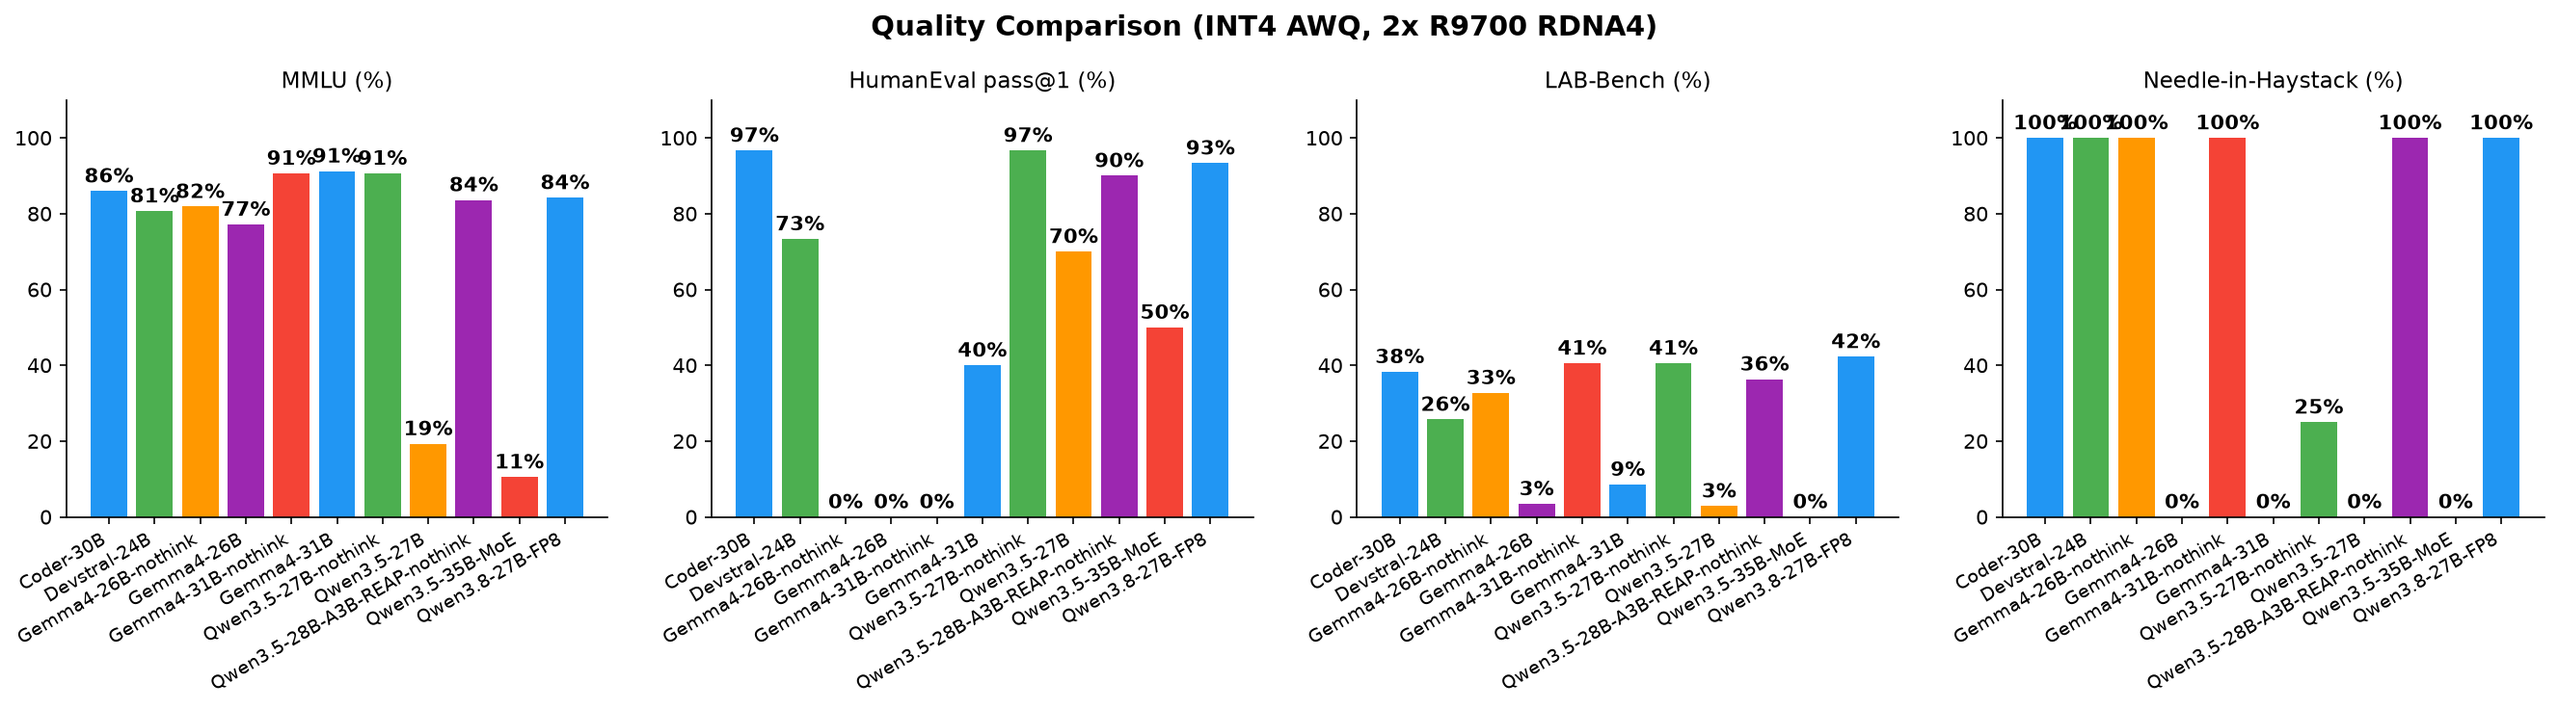
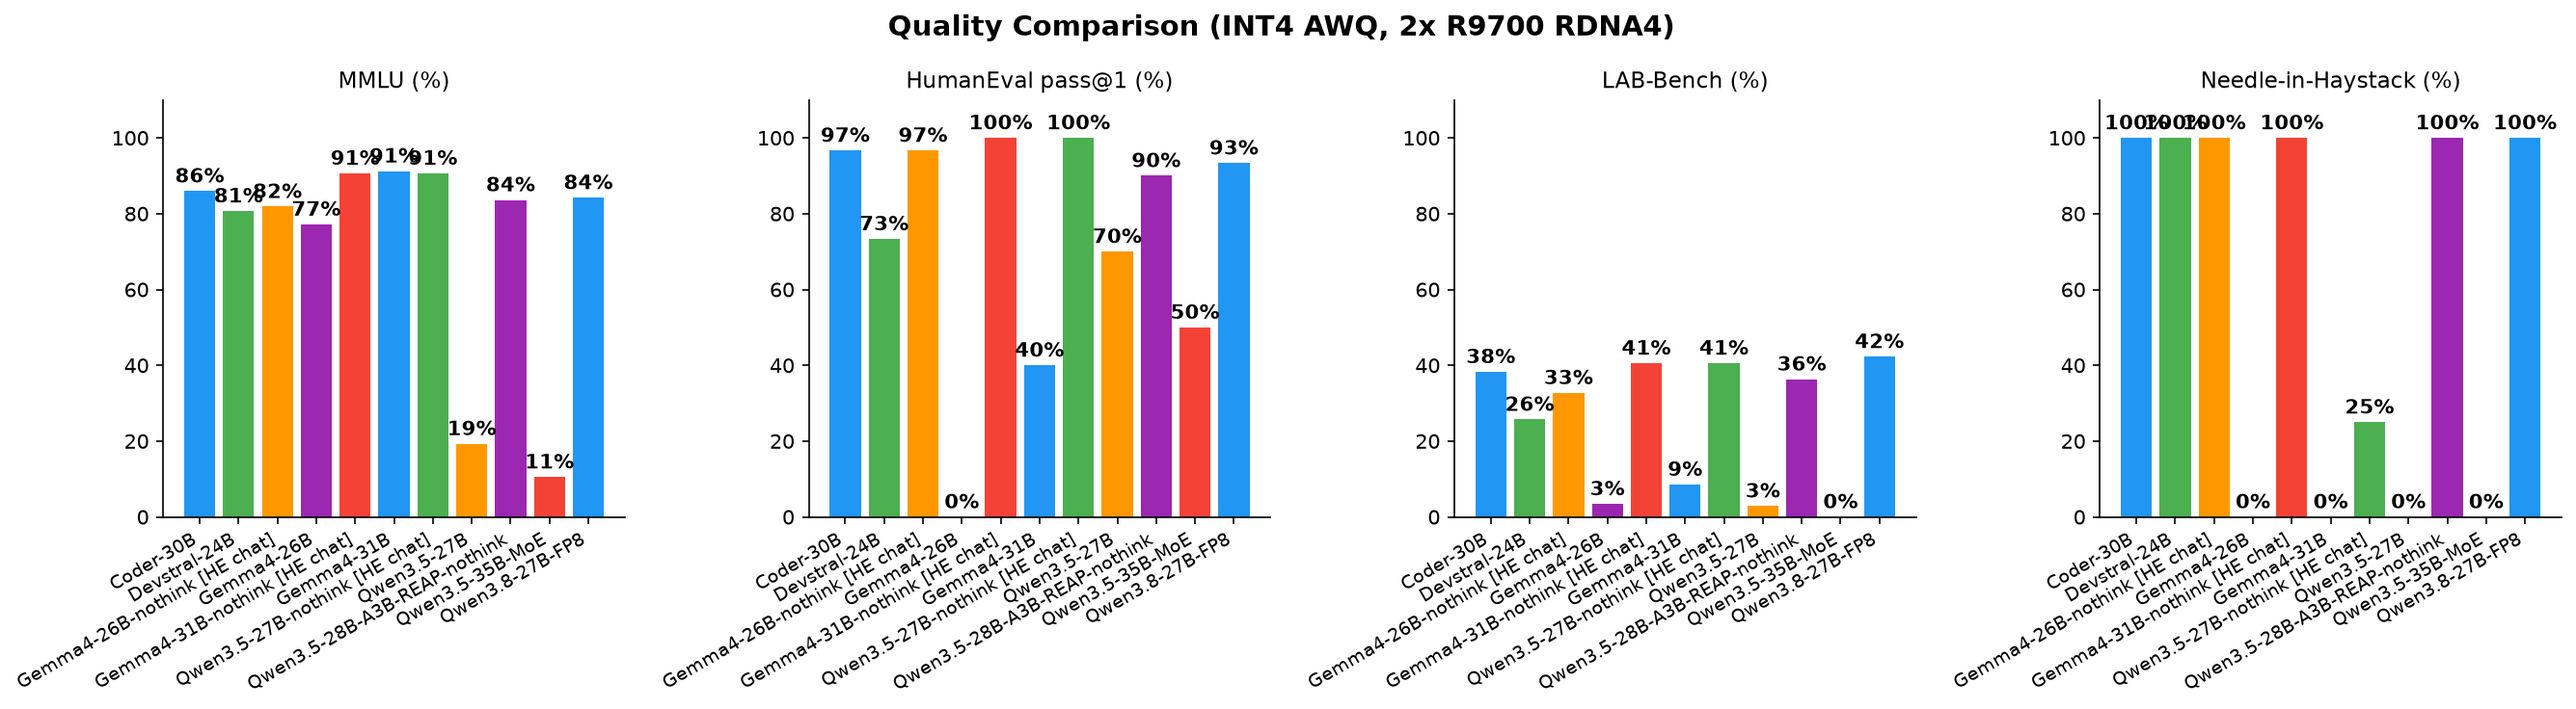
HumanEval chat condition: Gemma 4 31B 0/30 → 30/30, Gemma 4 26B-A4B 0/30 → 29/30, Qwen3.5-27B control 29/30 → 30/30 (raw cells kept as humaneval_completion); FINDINGS table + artifact note, chart labels [HE chat] files (#23)
Claude-Session: https://claude.ai/code/session_0199fcoSbidyi54vqWffFLeK

diff --git a/scripts/eval/eval_and_chart.py b/scripts/eval/eval_and_chart.py
@@ -351,7 +351,8 @@ def generate_charts():
         print("No results found. Run evals first.")
         return
 
-    tags = [r["tag"] for r in results]
+    # HumanEval condition differs per file (raw completion vs chat template); say so in the label
+    tags = [r["tag"] + (" [HE chat]" if r.get("he_mode") == "chat" else "") for r in results]
 
     def get_score(r, path, key):
         """Get score, return None if benchmark wasn't run (total=0)."""

diff --git a/benchmarks/FINDINGS.md b/benchmarks/FINDINGS.md
@@ -568,12 +568,12 @@ apples-to-apples condition and their cells are unaffected. Results JSONs record 
 The suppressed Qwen3.5 and Gemma 4 cells were re-measured under `--mc-no-think` (`*-nothink.json`
 receipts in `quality/`; MMLU 200 samples, LAB-Bench 50 per benchmark, needle 1K–64K):
 
-| Model (preset) | LAB-Bench think → no-think | MMLU think → no-think | HumanEval (raw completion) | Needle |
+| Model (preset) | LAB-Bench think → no-think | MMLU think → no-think | HumanEval raw completion → chat | Needle |
 |---|---:|---:|---:|---:|
-| Qwen3.5-27B AWQ (`qwen35`) | 0.029 → **0.405** | 0.193 → 0.906 | 0.700 → 0.967 | 1/4 |
-| Qwen3.5-28B-A3B-REAP AWQ (`qwen35-moe`) | 0.000 → **0.363** | — → 0.836 | — → 0.900 | 4/4 |
-| Gemma 4 31B AWQ (`gemma4-31b`) | 0.086 → **0.405** | 0.912 → 0.906 | 0.400 → 0.000 | 4/4 |
-| Gemma 4 26B-A4B AWQ (`gemma4`) | 0.034 → **0.327** | 0.772 → 0.819 | 0.000 → 0.000 | 4/4 |
+| Qwen3.5-27B AWQ (`qwen35`) | 0.029 → **0.405** | 0.193 → 0.906 | 0.967 → 1.000 | 1/4 |
+| Qwen3.5-28B-A3B-REAP AWQ (`qwen35-moe`) | 0.000 → **0.363** | — → 0.836 | 0.900 → — | 4/4 |
+| Gemma 4 31B AWQ (`gemma4-31b`) | 0.086 → **0.405** | 0.912 → 0.906 | 0.000 → **1.000** | 4/4 |
+| Gemma 4 26B-A4B AWQ (`gemma4`) | 0.034 → **0.327** | 0.772 → 0.819 | 0.000 → **0.967** | 4/4 |
 
 Qwen3.8-27B-FP8 (0.423) stays the fleet's best LAB-Bench; Qwen3.5-27B and Gemma 4 31B tie at 0.405 with
 better MMLU (0.906). The Qwen3.5-27B MMLU 0.193 and HumanEval 0.700 think-mode cells were the same budget
@@ -583,8 +583,11 @@ artifact (thinking consumed the 1,024-token MC budget; the 4,096-token code budg
 function stub, i.e. no chat template. Instruct-only checkpoints degenerate there: Gemma 4 31B answers the
 stub with repeated docstring quotes to the token cap (0/30), while the same problem through
 `/v1/chat/completions` returns a correct fenced solution. `--humaneval-chat` (2026-11-02) runs HumanEval
-through the chat template with code-fence extraction and records `he_mode`; the Gemma cells are re-run
-under it with Qwen3.5-27B (0.967 under raw completion) as the control (issue #23).
+through the chat template with code-fence extraction and records `he_mode` (the displaced raw-completion
+cell is kept as `humaneval_completion`). Re-run: Gemma 4 31B **30/30**, Gemma 4 26B-A4B **29/30**; the
+Qwen3.5-27B control moved 29/30 → 30/30, so the chat condition is at most one problem easier on a model
+that does not degenerate. The quality chart labels chat-condition files `[HE chat]`; every other
+HumanEval bar is still the raw-completion condition, so compare HumanEval within a condition only.
 
 ### Post-save processor files are a quantization ship gate (2026-10-25)
 

diff --git a/benchmarks/README.md b/benchmarks/README.md
@@ -68,7 +68,10 @@ LAB-Bench pass scored 5.1% because the 1024-token MC budget was consumed inside 
 `mc_mode` records the per-benchmark condition. The same artifact suppressed the Qwen3.5 and Gemma 4
 cells; their `--mc-no-think` re-measures are the `quality/*-nothink.json` receipts (Qwen3.5-27B LAB-Bench
 0.405, Qwen3.5-28B-A3B-REAP 0.363, Gemma 4 31B 0.405, Gemma 4 26B-A4B 0.327; FINDINGS → LAB-Bench
-think-budget artifact), and `quality/quality_comparison.png` is regenerated from every result file. The
+think-budget artifact). HumanEval has two conditions: raw `/v1/completions` on the function stub (the
+historical cells) and `--humaneval-chat` through the chat template (`he_mode: chat`; Gemma 4 scores 0/30 on the
+stub and 30/30 / 29/30 through the template). `quality/quality_comparison.png` is regenerated from every
+result file and labels chat-condition bars `[HE chat]`. The
 [single-profile 256K agentic ladder receipt](quality/tooluse256k-qwen38-27b-fp8-v0518-r9700.json)
 passes 7/7 rungs valid+correct to 245,150 actual tokens (`valid_toolcall` 1.0, `correct_action` 1.0).
 
